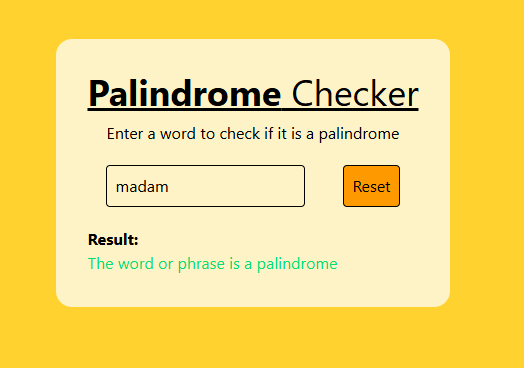
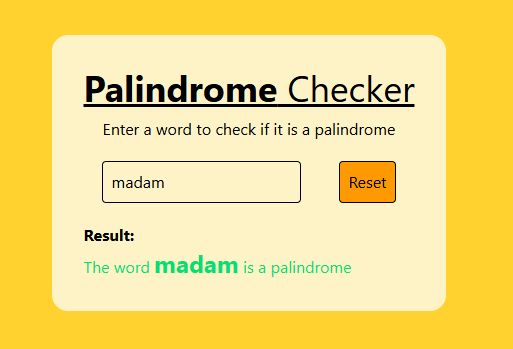
refactored result message

diff --git a/palindrome-checker/src/App.vue b/palindrome-checker/src/App.vue
@@ -25,9 +25,13 @@
         <p class="mt-5 font-bold">Result:</p>
         <p v-if="inputWordInvalid" class="text-red-700">Please enter a word</p>
         <p v-else-if="isPalindrome" class="text-green-400">
-          The word is a palindrome
+          The word <span class="text-2xl font-bold">{{ inputWord }}</span> is a
+          palindrome
         </p>
-        <p v-else class="text-red-400">The word is not a palindrome</p>
+        <p v-else class="text-red-400">
+          The word <span class="text-2xl font-bold">{{ inputWord }}</span> is not a
+          palindrome
+        </p>
       </div>
     </div>
   </main>
